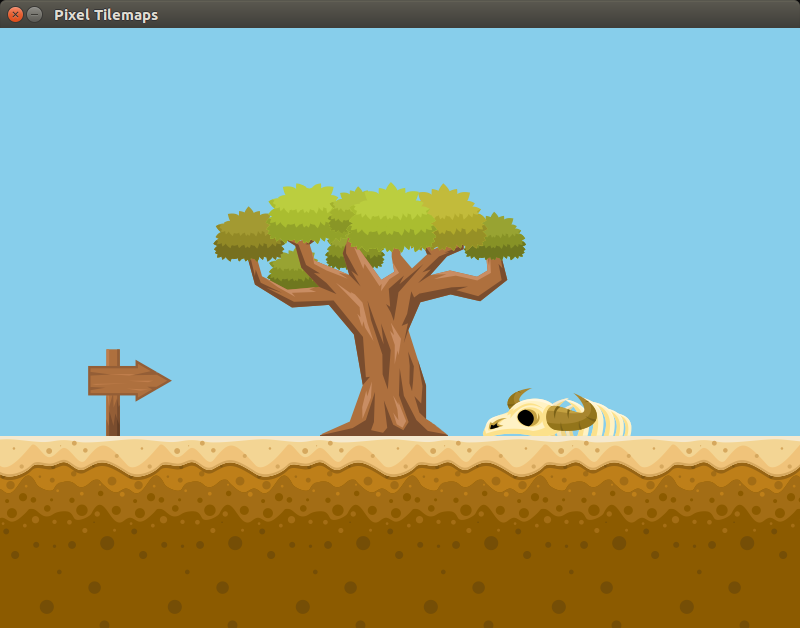
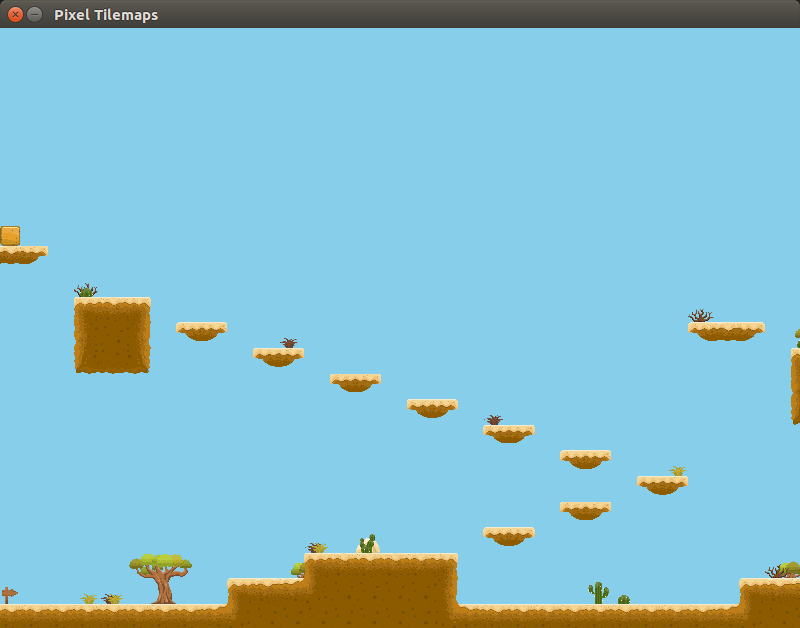
read all level data from tmx file

diff --git a/main.go b/main.go
@@ -1,12 +1,11 @@
 package main
 
 import (
-	"bytes"
-	"encoding/json"
+	"fmt"
 	"image/png"
-	"io"
-	"io/ioutil"
+	"math"
 	"os"
+	"time"
 
 	"golang.org/x/image/colornames"
 
@@ -17,46 +16,92 @@ import (
 
 var clearColor = colornames.Skyblue
 
-var tilemap *tmx.Map
 var sprites []*pixel.Sprite
 
-// Tile maps a tilemap coordinate to be drawn at `GamePos`
-type Tile struct {
-	MapPos  pixel.Vec `json:"mapPos"`
-	GamePos pixel.Vec `json:"gamePos"`
-}
+func gameloop(win *pixelgl.Window, tilemap *tmx.Map) {
+	// Load the sprites
+	sprites := make(map[string]*pixel.Sprite)
+	for _, tileset := range tilemap.Tilesets {
+		if _, alreadyLoaded := sprites[tileset.Image.Source]; !alreadyLoaded {
+			sprites[tileset.Image.Source] = loadSprite(tileset.Image.Source)
+		}
+	}
 
-// Level represents a single game scene composed of tiles
-//   - Tiles []*tile
-type Level struct {
-	Name  string  `json:"name"`
-	Tiles []*Tile `json:"tiles"`
-}
+	var (
+		camPos       = pixel.ZV
+		camSpeed     = 1000.0
+		camZoom      = 0.2
+		camZoomSpeed = 1.2
+	)
 
-func gameloop(win *pixelgl.Window, level *Level) {
-	tm := tilemap.Tilesets[0]
-	w := float64(tm.TileWidth)
-	h := float64(tm.TileHeight)
-	sprite := loadSprite(tm.Image.Source)
-
-	var iX, iY float64
-	var fX = float64(tm.TileWidth)
-	var fY = float64(tm.TileHeight)
-
+	last := time.Now()
 	for !win.Closed() {
+		dt := time.Since(last).Seconds()
+		last = time.Now()
+
+		// Camera movement
+		cam := pixel.IM.Scaled(camPos, camZoom).Moved(win.Bounds().Center().Sub(camPos))
+		win.SetMatrix(cam)
+		if win.Pressed(pixelgl.KeyLeft) {
+			camPos.X -= camSpeed * dt
+		}
+		if win.Pressed(pixelgl.KeyRight) {
+			camPos.X += camSpeed * dt
+		}
+		if win.Pressed(pixelgl.KeyDown) {
+			camPos.Y -= camSpeed * dt
+		}
+		if win.Pressed(pixelgl.KeyUp) {
+			camPos.Y += camSpeed * dt
+		}
+		camZoom *= math.Pow(camZoomSpeed, win.MouseScroll().Y)
+
 		win.Clear(clearColor)
 
-		for _, coord := range level.Tiles {
-			iX = coord.MapPos.X * w
-			fX = iX + w
-			iY = coord.MapPos.Y * h
-			fY = iY + h
-			sprite.Set(sprite.Picture(), pixel.R(iX, iY, fX, fY))
-			pos := coord.GamePos.ScaledXY(pixel.V(w, h))
-			sprite.Draw(win, pixel.IM.Moved(pos.Add(pixel.V(0, h))))
+		// Draw tiles
+		for _, layer := range tilemap.Layers {
+			for tileIndex, tile := range layer.DecodedTiles {
+				ts := layer.Tileset
+				tID := int(tile.ID)
+
+				if tID == 0 {
+					// Tile ID 0 means blank, skip it.
+					continue
+				}
+
+				// Calculate the framing for the tile within its tileset's source image
+				numRows := ts.Tilecount / ts.Columns
+				x, y := tileIDToCoord(tID, ts.Columns, numRows)
+				gamePos := indexToGamePos(tileIndex, tilemap.Width, tilemap.Height)
+
+				iX := float64(x) * float64(ts.TileWidth)
+				fX := iX + float64(ts.TileWidth)
+				iY := float64(y) * float64(ts.TileHeight)
+				fY := iY + float64(ts.TileHeight)
+
+				sprite := sprites[ts.Image.Source]
+				sprite.Set(sprite.Picture(), pixel.R(iX, iY, fX, fY))
+				pos := gamePos.ScaledXY(pixel.V(float64(ts.TileWidth), float64(ts.TileHeight)))
+				sprite.Draw(win, pixel.IM.Moved(pos))
+			}
 		}
+
 		win.Update()
 	}
+}
+
+func tileIDToCoord(tID int, numColumns int, numRows int) (x int, y int) {
+	x = tID % numColumns
+	y = numRows - (tID / numColumns) - 1
+	return
+}
+
+func indexToGamePos(idx int, width int, height int) pixel.Vec {
+	gamePos := pixel.V(
+		float64(idx%width)-1,
+		float64(height)-float64(idx/width),
+	)
+	return gamePos
 }
 
 func run() {
@@ -71,14 +116,11 @@ func run() {
 	panicIfErr(err)
 
 	// Initialize art assets (i.e. the tilemap)
-	tilemap, err = tmx.ReadFile("gameart2d-desert.tmx")
+	tilemap, err := tmx.ReadFile("gameart2d-desert.tmx")
 	panicIfErr(err)
 
-	// Load the level from file
-	level, err := ParseLevelFile("level.json")
-	panicIfErr(err)
-
-	gameloop(win, level)
+	fmt.Println("use WASD to move camera around")
+	gameloop(win, tilemap)
 }
 
 func loadSprite(path string) *pixel.Sprite {
@@ -90,43 +132,6 @@ func loadSprite(path string) *pixel.Sprite {
 
 	pd := pixel.PictureDataFromImage(img)
 	return pixel.NewSprite(pd, pd.Bounds())
-}
-
-// ParseLevelFile reads a file from the disk at `path`
-// and unmarshals it to a `*Level`
-func ParseLevelFile(path string) (*Level, error) {
-	f, err := os.Open(path)
-	if err != nil {
-		return nil, err
-	}
-	defer f.Close()
-
-	bytes, err := ioutil.ReadAll(f)
-	if err != nil {
-		return nil, err
-	}
-
-	var newLevel Level
-	json.Unmarshal(bytes, &newLevel)
-	return &newLevel, nil
-}
-
-// Save serializes a level to a JSON data file
-func (level *Level) Save(path string) error {
-	f, err := os.Create(path)
-	if err != nil {
-		return err
-	}
-	defer f.Close()
-
-	b, err := json.MarshalIndent(level, "", "  ")
-	if err != nil {
-		return err
-	}
-
-	r := bytes.NewReader(b)
-	_, err = io.Copy(f, r)
-	return err
 }
 
 func main() {

diff --git a/README.md b/README.md
@@ -1,5 +1,5 @@
 # Pixel Tiles Example
-This is a very--VERY--simple example of how you might load a tilemap generated with [Tiled](https://www.mapeditor.org/) (i.e. a .tmx file), 
+This is a very simple example of how you might load a tilemap generated with [Tiled](https://www.mapeditor.org/) (i.e. a .tmx file), 
 in a game with [Pixel](https://github.com/faiface/pixel) for Go.
 
 The tilemap used in this example is humbly borrowed from James Bowman's repo here: [https://github.com/jamesbowman/tiled-maps](https://github.com/jamesbowman/tiled-maps).
